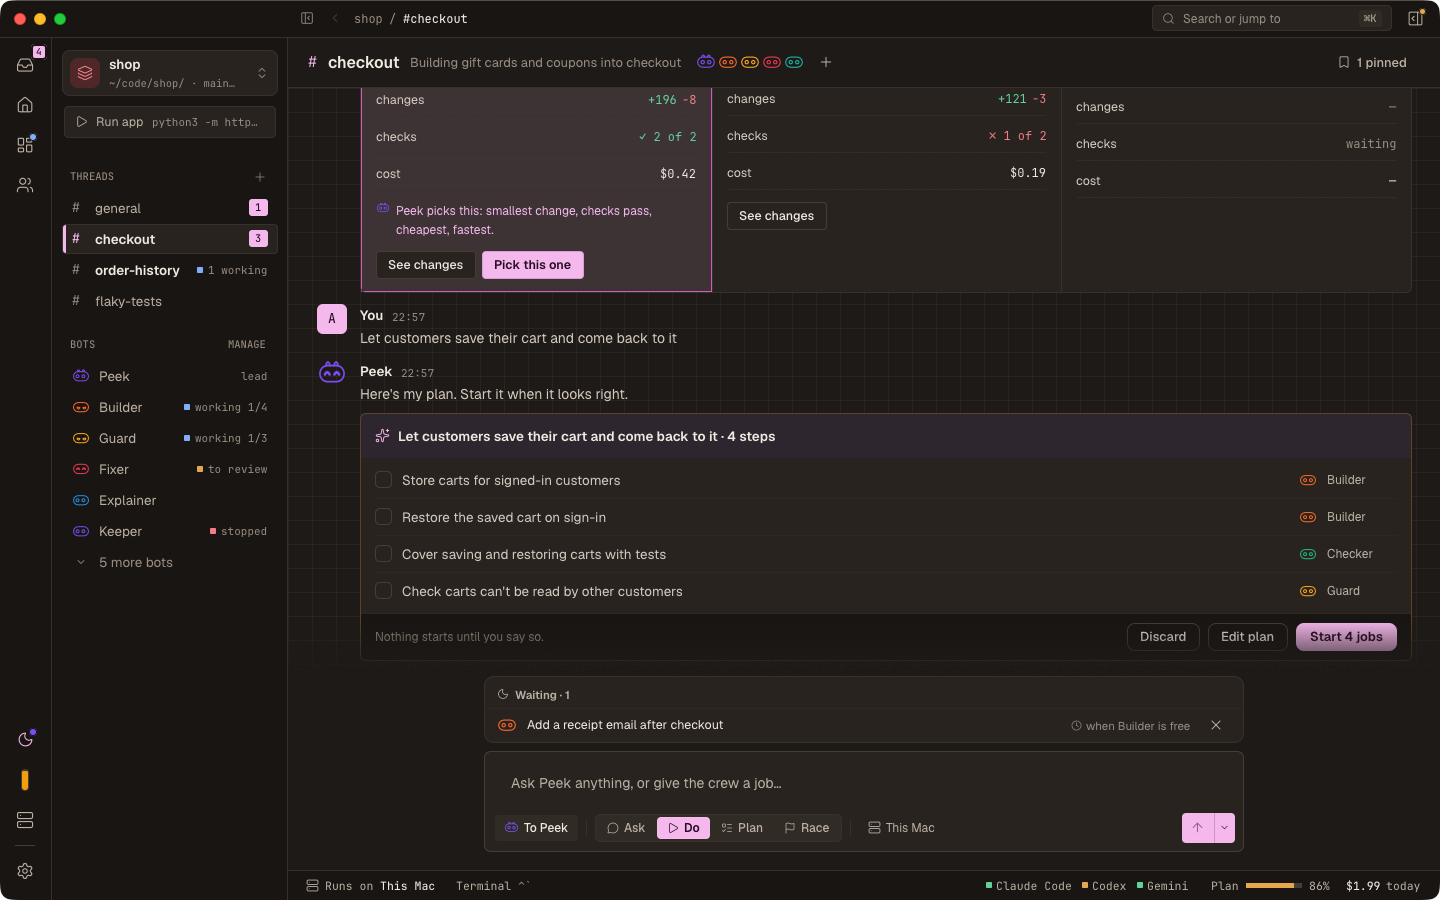
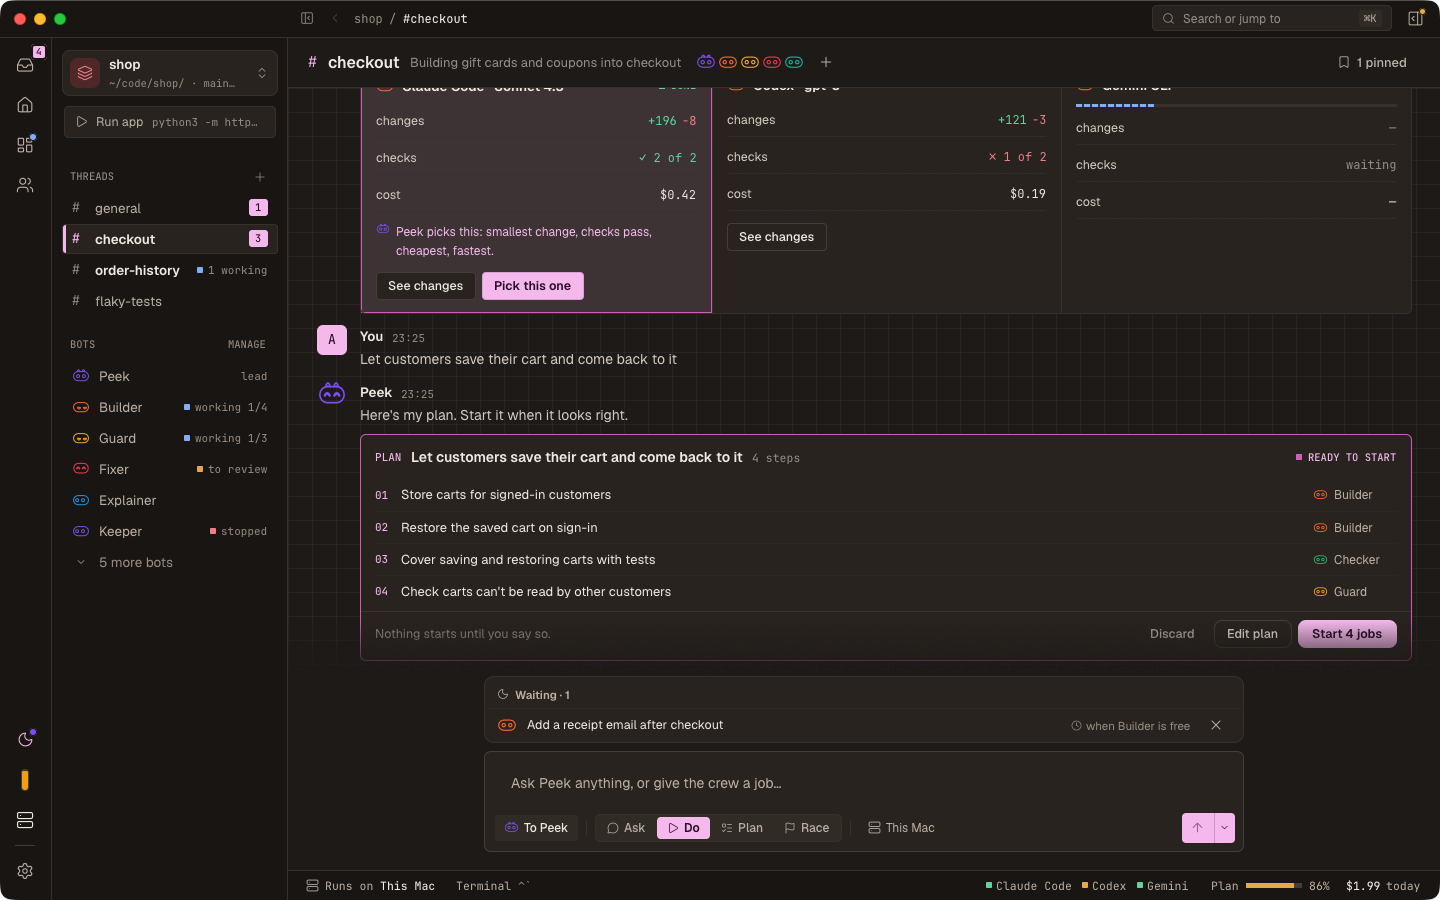
Add the plan card redesign to alpha.12 and retake the screenshots that show it

diff --git a/CHANGELOG.md b/CHANGELOG.md
@@ -16,6 +16,7 @@ All notable changes to Squad Code are documented here. Entries before 2.0 were w
 - The rail holds places only, as icons named on hover: Inbox, Overview, Jobs and Crew, with the night shift, today's usage as a thin bar (amber at 75%, red at 90%; click it for the engines), Machines and Settings at its foot. The project tiles left the rail for the switcher.
 - With the right side closed, a thread's messages fill the width instead of keeping to a narrow column.
 - A new app icon: Peek peeking over a terminal, in graphite and lime.
+- Peek's plan cards match the Graphite and lime look: a PLAN mark with the goal, its steps and how it stands (READY TO START, WORKING · 2/3 DONE), numbered steps with each bot in a lane on the right, a bar with a segment per step once it runs, and Discard, Edit plan and Start on a hairline foot. A job being shipped counts as done in the card's tally.
 - The README covers the switcher, Run app, the terminal drawer, Run it later and the new themes, with fresh screenshots.
 - The Run it later menu lines up: each time has an icon, its name over why you'd pick it, and when it starts in a column on the right, the clock over the day ("11:00 PM", "today"), so both lines of every row share an edge.
 - A running app no longer sits pinned over the composer. Run app turns into a small pill under the project's name with its command, port, an Open button and a chevron; its card (output, Restart, Stop) opens beside the sidebar the first time and tucks back into the pill when you go to another page or click outside it. Click the pill, or its line under Running now, to bring the card back. A crashed app shows red in the pill.

diff --git a/README.md b/README.md
@@ -46,7 +46,7 @@ and you approve, send it back or throw it away right in the thread.
 
 <br />
 
-<img src="docs/images/thread.png" alt="Squad Code's main window: the icon rail on the far left, the project switcher and Run app at the head of the sidebar with the project's threads and bots under them, and the #checkout thread with a race of three tries, Peek's four-step plan waiting to start and a job queued to run later" width="920" />
+<img src="docs/images/thread.png" alt="Squad Code's main window: the icon rail on the far left, the project switcher and Run app at the head of the sidebar with the project's threads and bots under them, and the #checkout thread with a race of three tries, Peek's four-step plan card ready to start and a job queued to run later" width="920" />
 
 </div>
 
